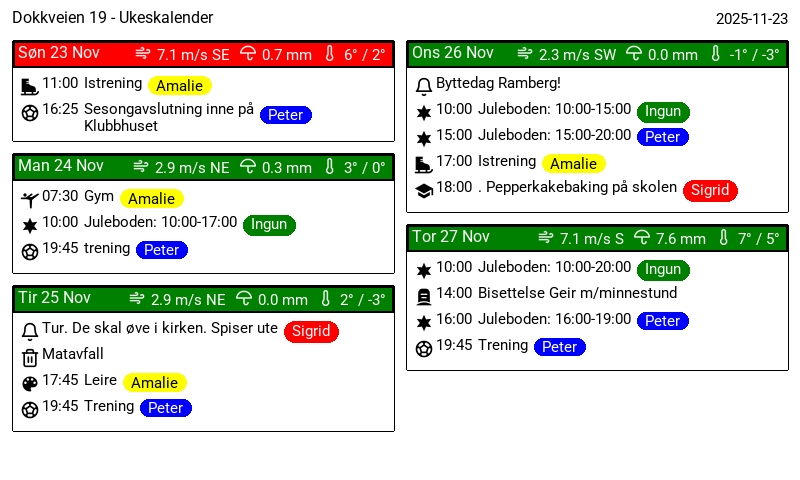
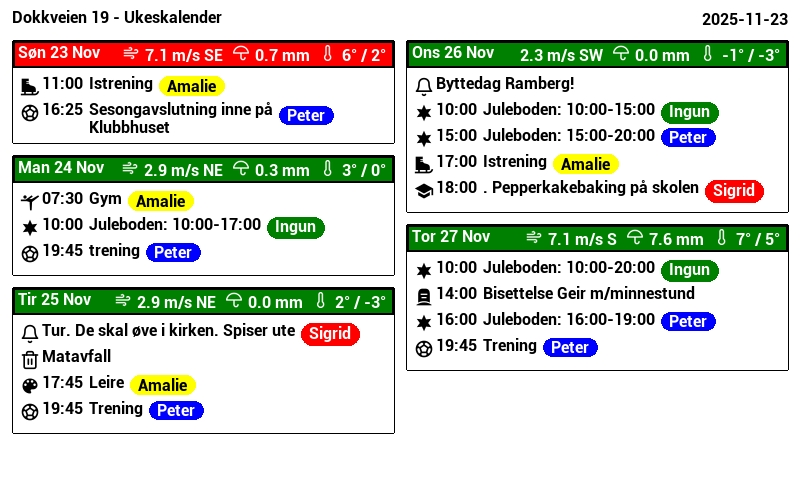
Describe what changed (update assets, fix layout_renderer, etc.)

diff --git a/main.py b/main.py
@@ -79,7 +79,7 @@ opts = {
     "header_text_color": "WHITE",
     "dotted_line_between_events": True,
     "event_vspacing": 14,
-    "font_small_size": 15,
+    "font_small_size": 16,
     "font_bold_size": 16,
     "dot_gap": 200,
     "dot_color": "WHITE",
@@ -89,8 +89,8 @@ opts = {
     "min_box_height": 48,
     "show_more_text": True,
     "weather_debug": True,
-    "tag_font": "NotoSans-Bold.ttf",   # filename in assets/fonts OR full path
-    "tag_font_size": 14,  
+    "tag_font": "Roboto-Bold.ttf",   # filename in assets/fonts OR full path
+    "tag_font_size": 16,  
     "weather_tag_font": "Roboto-Regular.ttf",   # filename in assets/fonts or full path
     "weather_tag_font_size": 30,                # integer
     "weather_gap": 0,                            # pixel gap between each weather info block (default 

diff --git a/layout_renderer.py b/layout_renderer.py
@@ -41,8 +41,8 @@ ASSETS_DIR = os.path.join(os.path.dirname(__file__), "assets")
 FONTS_DIR = os.path.join(ASSETS_DIR, "fonts")
 ICONS_DIR = os.path.join(ASSETS_DIR, "icons")
 
-DEFAULT_FONT = os.path.join(FONTS_DIR, "Roboto-Regular.ttf")
-DEFAULT_BOLD_FONT = os.path.join(FONTS_DIR, "Roboto-Regular.ttf")
+DEFAULT_FONT = os.path.join(FONTS_DIR, "Roboto-Bold.ttf")
+DEFAULT_BOLD_FONT = os.path.join(FONTS_DIR, "Roboto-Bold.ttf")
 
 ICON_NAME_MAP = {
     "clearsky_day": "sun",
